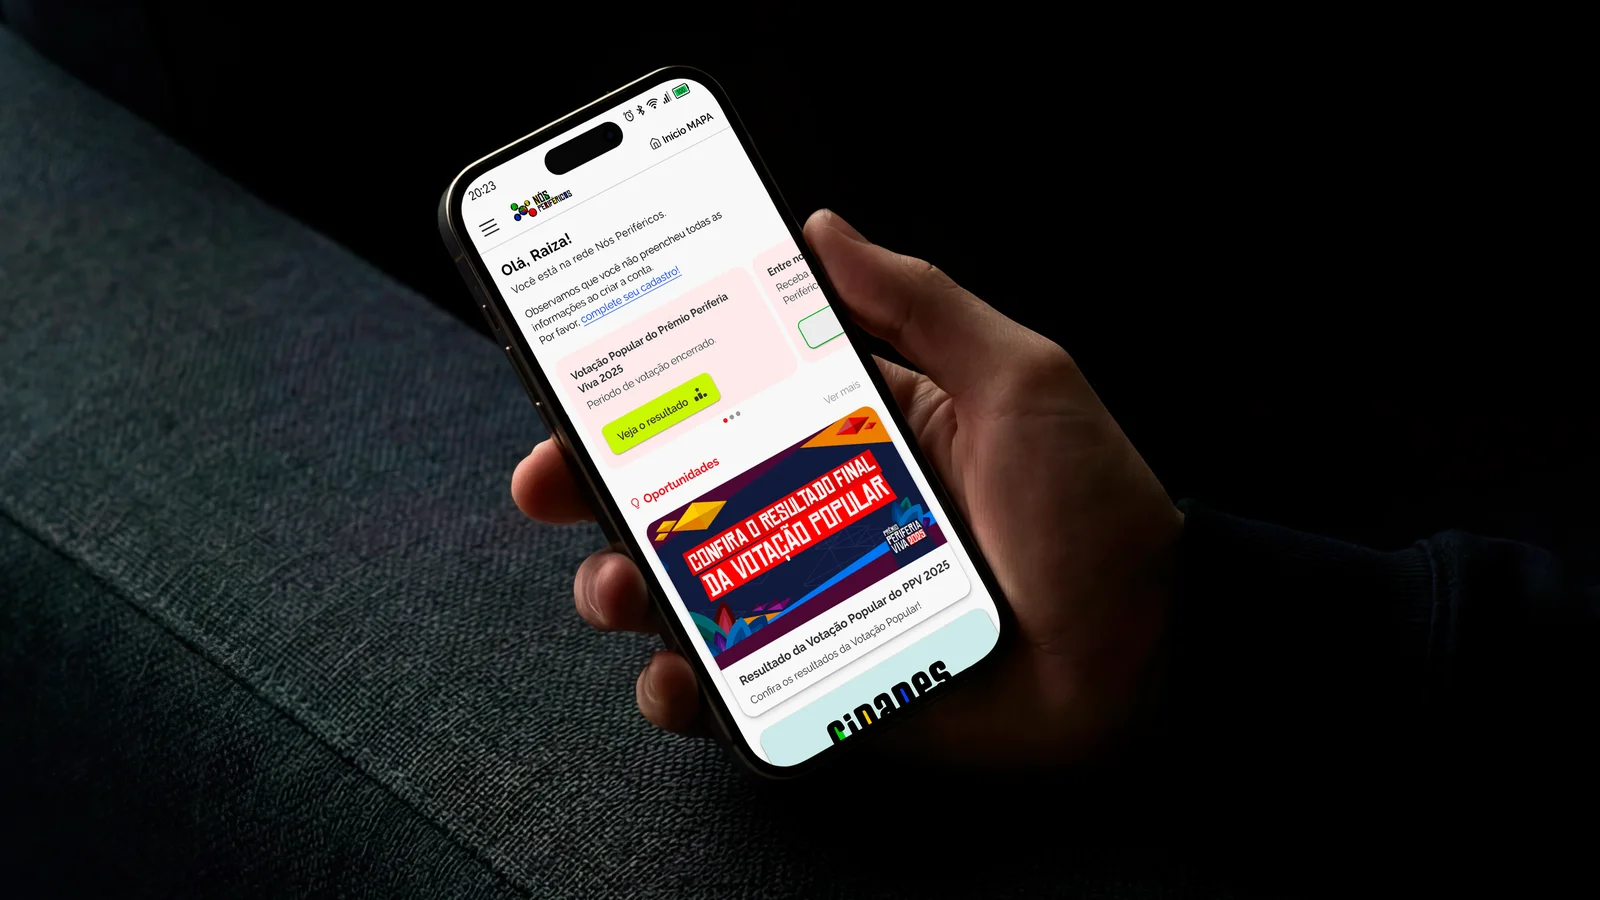
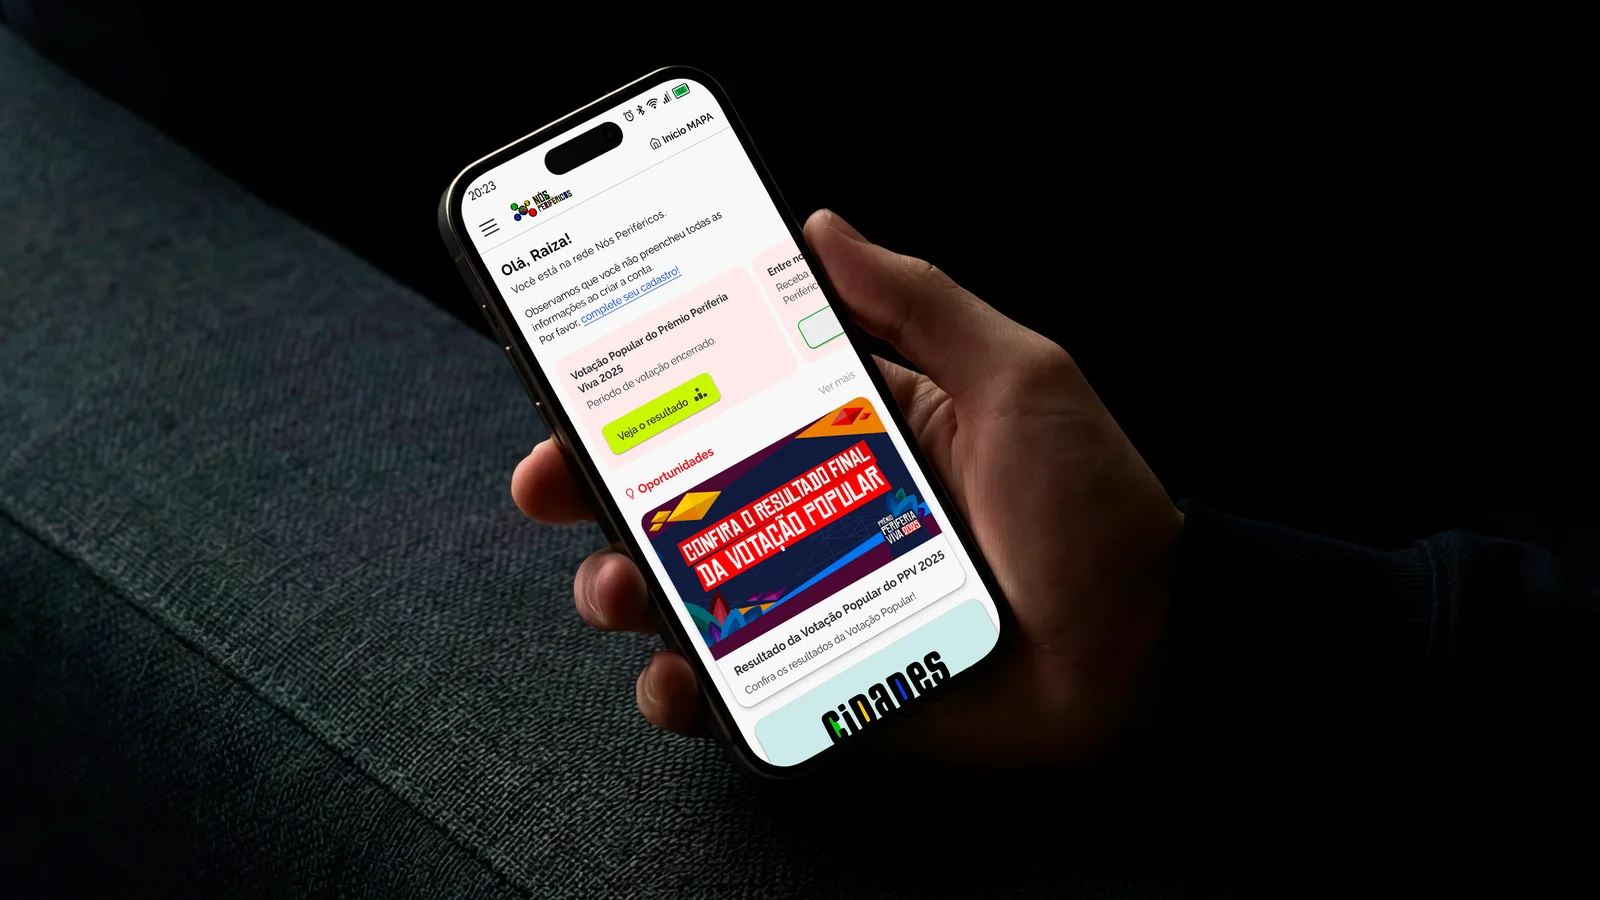
Nós Periféricos: troca capa e thumbnail
Claude-Session: https://claude.ai/code/session_012AxJFdE54PENw1WeYu8UBg

Changed region(s): [[0.375, 0.4356, 0.625, 0.8089]]

diff --git a/projetos/nos-perifericos.html b/projetos/nos-perifericos.html
@@ -7,11 +7,11 @@
 <meta name="description" content="Plataforma criada do zero para iniciativas das periferias encontrarem editais, cursos e oportunidades do governo federal, e a busca que leva o CEP do programa CEP para Todos a quem mora em favelas e comunidades.">
 <meta property="og:title" content="Nós Periféricos — Raiza Tomazoni">
 <meta property="og:description" content="Plataforma criada do zero para iniciativas das periferias encontrarem editais, cursos e oportunidades do governo federal, e a busca que leva o CEP do programa CEP para Todos a quem mora em favelas e comunidades.">
-<meta property="og:image" content="../assets/img/cover-nos-perifericos.webp?v=8bea8d30">
+<meta property="og:image" content="../assets/img/cover-nos-perifericos.webp?v=ae859e0e">
 <meta name="theme-color" content="#f3f4f5">
 <link rel="icon" href="../assets/favicon.svg" type="image/svg+xml">
 <link rel="preconnect" href="https://fonts.googleapis.com"><link rel="preconnect" href="https://fonts.gstatic.com" crossorigin><link href="https://fonts.googleapis.com/css2?family=Bricolage+Grotesque:opsz,wdth,wght@12..96,75..100,200..800&family=Inter:opsz,wght@14..32,400..700&family=Quicksand:wght@400..700&family=Lato:wght@400;700&display=swap" rel="stylesheet">
-<link rel="stylesheet" href="../assets/css/style.css?v=1792247257">
+<link rel="stylesheet" href="../assets/css/style.css?v=1792247449">
 <script>document.documentElement.classList.add('js')</script>
 </head>
 <body>
@@ -33,7 +33,7 @@
   <p class="lede" data-reveal>Uma plataforma federal criada do zero para que iniciativas das periferias encontrem editais, cursos e oportunidades, e uma busca que entrega o CEP oficial de favelas e comunidades a partir do nome do lugar onde a pessoa mora.</p>
   <dl class="meta" data-reveal><div><dt>Papel</dt><dd>UX/UI Designer</dd></div><div><dt>Cliente</dt><dd>Secretaria Nacional de Periferias</dd></div><div><dt>Ano</dt><dd>2025</dd></div><div><dt>No ar</dt><dd><a href="https://nosperifericos.cidades.gov.br" target="_blank" rel="noopener">nosperifericos.cidades.gov.br</a></dd></div></dl>
 </div></section>
-<div class="wrap case-cover"><div class="case-cover__frame" data-reveal="clip"><img src="../assets/img/np-capa.webp?v=890ce367" alt="Celular na mão mostrando a tela inicial do Nós Periféricos, com saudação, aviso para completar o cadastro, destaque da Votação Popular e oportunidades"></div></div>
+<div class="wrap case-cover"><div class="case-cover__frame" data-reveal="clip"><img src="../assets/img/np-capa.webp?v=3c8ddd34" alt="Celular na mão mostrando a tela inicial do Nós Periféricos, com saudação, aviso para completar o cadastro, destaque da Votação Popular e oportunidades"></div></div>
 <div class="wrap">
 <section class="block"><h2 data-reveal>O desafio</h2><div class="block__body" data-reveal>
 <p>A Secretaria Nacional de Periferias (SNP) mantém programas, editais, cursos e ações voltados a favelas e comunidades urbanas de todo o país, mas não existia um lugar único onde as iniciativas periféricas pudessem se cadastrar, encontrar o que se aplica à sua realidade e se conectar entre si.</p>
@@ -91,6 +91,6 @@
   <span>© <span id="ano">2026</span> Raiza Tomazoni</span>
   <a class="u" href="https://www.linkedin.com/in/raizatomazoni/" target="_blank" rel="noopener">linkedin.com/in/raizatomazoni</a>
 </div></footer>
-<script src="../assets/js/main.js?v=1792247257" defer></script>
+<script src="../assets/js/main.js?v=1792247449" defer></script>
 </body>
 </html>

diff --git a/index.html b/index.html
@@ -7,11 +7,11 @@
 <meta name="description" content="Portfólio de Raiza Tomazoni, designer de produto e UX com formação em Arquitetura e Urbanismo. Projetos para a Secretaria Nacional de Periferias, SUDEMA-PB e outros.">
 <meta property="og:title" content="Raiza Tomazoni — UX/UI e Product Designer">
 <meta property="og:description" content="Portfólio de Raiza Tomazoni, designer de produto e UX com formação em Arquitetura e Urbanismo. Projetos para a Secretaria Nacional de Periferias, SUDEMA-PB e outros.">
-<meta property="og:image" content="assets/img/cover-nos-perifericos.webp?v=8bea8d30">
+<meta property="og:image" content="assets/img/cover-nos-perifericos.webp?v=ae859e0e">
 <meta name="theme-color" content="#f3f4f5">
 <link rel="icon" href="assets/favicon.svg" type="image/svg+xml">
 <link rel="preconnect" href="https://fonts.googleapis.com"><link rel="preconnect" href="https://fonts.gstatic.com" crossorigin><link href="https://fonts.googleapis.com/css2?family=Bricolage+Grotesque:opsz,wdth,wght@12..96,75..100,200..800&family=Inter:opsz,wght@14..32,400..700&family=Quicksand:wght@400..700&family=Lato:wght@400;700&display=swap" rel="stylesheet">
-<link rel="stylesheet" href="assets/css/style.css?v=1792247257">
+<link rel="stylesheet" href="assets/css/style.css?v=1792247449">
 <script>document.documentElement.classList.add('js')</script>
 </head>
 <body>
@@ -87,7 +87,7 @@
   </div>
   <div class="grid">
       <a class="card" href="projetos/nos-perifericos.html" data-reveal>
-        <div class="card__media" data-cursor="Ver projeto"><img src="assets/img/cover-nos-perifericos.webp?v=8bea8d30" alt="Celular na mão mostrando a tela inicial do Nós Periféricos, com saudação, aviso para completar o cadastro, destaque da Votação Popular e oportunidades" width="1600" height="900" loading="lazy"></div>
+        <div class="card__media" data-cursor="Ver projeto"><img src="assets/img/cover-nos-perifericos.webp?v=ae859e0e" alt="Celular na mão mostrando a tela inicial do Nós Periféricos, com saudação, aviso para completar o cadastro, destaque da Votação Popular e oportunidades" width="1600" height="900" loading="lazy"></div>
         <h3>Nós Periféricos</h3>
         <p>Plataforma federal para iniciativas das periferias e a busca do CEP oficial de favelas e comunidades.</p>
       </a>
@@ -176,6 +176,6 @@
   <span>© <span id="ano">2026</span> Raiza Tomazoni</span>
   <a class="u" href="https://www.linkedin.com/in/raizatomazoni/" target="_blank" rel="noopener">linkedin.com/in/raizatomazoni</a>
 </div></footer>
-<script src="assets/js/main.js?v=1792247257" defer></script>
+<script src="assets/js/main.js?v=1792247449" defer></script>
 </body>
 </html>

diff --git a/projetos/cte.html b/projetos/cte.html
@@ -11,7 +11,7 @@
 <meta name="theme-color" content="#f3f4f5">
 <link rel="icon" href="../assets/favicon.svg" type="image/svg+xml">
 <link rel="preconnect" href="https://fonts.googleapis.com"><link rel="preconnect" href="https://fonts.gstatic.com" crossorigin><link href="https://fonts.googleapis.com/css2?family=Bricolage+Grotesque:opsz,wdth,wght@12..96,75..100,200..800&family=Inter:opsz,wght@14..32,400..700&family=Quicksand:wght@400..700&family=Lato:wght@400;700&display=swap" rel="stylesheet">
-<link rel="stylesheet" href="../assets/css/style.css?v=1792247257">
+<link rel="stylesheet" href="../assets/css/style.css?v=1792247449">
 <script>document.documentElement.classList.add('js')</script>
 </head>
 <body>
@@ -172,6 +172,6 @@
   <span>© <span id="ano">2026</span> Raiza Tomazoni</span>
   <a class="u" href="https://www.linkedin.com/in/raizatomazoni/" target="_blank" rel="noopener">linkedin.com/in/raizatomazoni</a>
 </div></footer>
-<script src="../assets/js/main.js?v=1792247257" defer></script>
+<script src="../assets/js/main.js?v=1792247449" defer></script>
 </body>
 </html>

diff --git a/projetos/rangout.html b/projetos/rangout.html
@@ -11,7 +11,7 @@
 <meta name="theme-color" content="#f3f4f5">
 <link rel="icon" href="../assets/favicon.svg" type="image/svg+xml">
 <link rel="preconnect" href="https://fonts.googleapis.com"><link rel="preconnect" href="https://fonts.gstatic.com" crossorigin><link href="https://fonts.googleapis.com/css2?family=Bricolage+Grotesque:opsz,wdth,wght@12..96,75..100,200..800&family=Inter:opsz,wght@14..32,400..700&family=Quicksand:wght@400..700&family=Lato:wght@400;700&display=swap" rel="stylesheet">
-<link rel="stylesheet" href="../assets/css/style.css?v=1792247257">
+<link rel="stylesheet" href="../assets/css/style.css?v=1792247449">
 <script>document.documentElement.classList.add('js')</script>
 </head>
 <body>
@@ -221,6 +221,6 @@
   <span>© <span id="ano">2026</span> Raiza Tomazoni</span>
   <a class="u" href="https://www.linkedin.com/in/raizatomazoni/" target="_blank" rel="noopener">linkedin.com/in/raizatomazoni</a>
 </div></footer>
-<script src="../assets/js/main.js?v=1792247257" defer></script>
+<script src="../assets/js/main.js?v=1792247449" defer></script>
 </body>
 </html>

diff --git a/projetos/vitra.html b/projetos/vitra.html
@@ -11,7 +11,7 @@
 <meta name="theme-color" content="#f3f4f5">
 <link rel="icon" href="../assets/favicon.svg" type="image/svg+xml">
 <link rel="preconnect" href="https://fonts.googleapis.com"><link rel="preconnect" href="https://fonts.gstatic.com" crossorigin><link href="https://fonts.googleapis.com/css2?family=Bricolage+Grotesque:opsz,wdth,wght@12..96,75..100,200..800&family=Inter:opsz,wght@14..32,400..700&family=Quicksand:wght@400..700&family=Lato:wght@400;700&display=swap" rel="stylesheet">
-<link rel="stylesheet" href="../assets/css/style.css?v=1792247257">
+<link rel="stylesheet" href="../assets/css/style.css?v=1792247449">
 <script>document.documentElement.classList.add('js')</script>
 </head>
 <body>
@@ -125,6 +125,6 @@
   <span>© <span id="ano">2026</span> Raiza Tomazoni</span>
   <a class="u" href="https://www.linkedin.com/in/raizatomazoni/" target="_blank" rel="noopener">linkedin.com/in/raizatomazoni</a>
 </div></footer>
-<script src="../assets/js/main.js?v=1792247257" defer></script>
+<script src="../assets/js/main.js?v=1792247449" defer></script>
 </body>
 </html>

diff --git a/projetos/labrua.html b/projetos/labrua.html
@@ -11,7 +11,7 @@
 <meta name="theme-color" content="#f3f4f5">
 <link rel="icon" href="../assets/favicon.svg" type="image/svg+xml">
 <link rel="preconnect" href="https://fonts.googleapis.com"><link rel="preconnect" href="https://fonts.gstatic.com" crossorigin><link href="https://fonts.googleapis.com/css2?family=Bricolage+Grotesque:opsz,wdth,wght@12..96,75..100,200..800&family=Inter:opsz,wght@14..32,400..700&family=Quicksand:wght@400..700&family=Lato:wght@400;700&display=swap" rel="stylesheet">
-<link rel="stylesheet" href="../assets/css/style.css?v=1792247257">
+<link rel="stylesheet" href="../assets/css/style.css?v=1792247449">
 <script>document.documentElement.classList.add('js')</script>
 </head>
 <body>
@@ -54,6 +54,6 @@
   <span>© <span id="ano">2026</span> Raiza Tomazoni</span>
   <a class="u" href="https://www.linkedin.com/in/raizatomazoni/" target="_blank" rel="noopener">linkedin.com/in/raizatomazoni</a>
 </div></footer>
-<script src="../assets/js/main.js?v=1792247257" defer></script>
+<script src="../assets/js/main.js?v=1792247449" defer></script>
 </body>
 </html>

diff --git a/projetos/mapa-das-periferias.html b/projetos/mapa-das-periferias.html
@@ -11,7 +11,7 @@
 <meta name="theme-color" content="#f3f4f5">
 <link rel="icon" href="../assets/favicon.svg" type="image/svg+xml">
 <link rel="preconnect" href="https://fonts.googleapis.com"><link rel="preconnect" href="https://fonts.gstatic.com" crossorigin><link href="https://fonts.googleapis.com/css2?family=Bricolage+Grotesque:opsz,wdth,wght@12..96,75..100,200..800&family=Inter:opsz,wght@14..32,400..700&family=Quicksand:wght@400..700&family=Lato:wght@400;700&display=swap" rel="stylesheet">
-<link rel="stylesheet" href="../assets/css/style.css?v=1792247257">
+<link rel="stylesheet" href="../assets/css/style.css?v=1792247449">
 <script>document.documentElement.classList.add('js')</script>
 </head>
 <body>
@@ -56,6 +56,6 @@
   <span>© <span id="ano">2026</span> Raiza Tomazoni</span>
   <a class="u" href="https://www.linkedin.com/in/raizatomazoni/" target="_blank" rel="noopener">linkedin.com/in/raizatomazoni</a>
 </div></footer>
-<script src="../assets/js/main.js?v=1792247257" defer></script>
+<script src="../assets/js/main.js?v=1792247449" defer></script>
 </body>
 </html>

diff --git a/projetos/sudema-mais.html b/projetos/sudema-mais.html
@@ -11,7 +11,7 @@
 <meta name="theme-color" content="#f3f4f5">
 <link rel="icon" href="../assets/favicon.svg" type="image/svg+xml">
 <link rel="preconnect" href="https://fonts.googleapis.com"><link rel="preconnect" href="https://fonts.gstatic.com" crossorigin><link href="https://fonts.googleapis.com/css2?family=Bricolage+Grotesque:opsz,wdth,wght@12..96,75..100,200..800&family=Inter:opsz,wght@14..32,400..700&family=Quicksand:wght@400..700&family=Lato:wght@400;700&display=swap" rel="stylesheet">
-<link rel="stylesheet" href="../assets/css/style.css?v=1792247257">
+<link rel="stylesheet" href="../assets/css/style.css?v=1792247449">
 <script>document.documentElement.classList.add('js')</script>
 </head>
 <body>
@@ -54,6 +54,6 @@
   <span>© <span id="ano">2026</span> Raiza Tomazoni</span>
   <a class="u" href="https://www.linkedin.com/in/raizatomazoni/" target="_blank" rel="noopener">linkedin.com/in/raizatomazoni</a>
 </div></footer>
-<script src="../assets/js/main.js?v=1792247257" defer></script>
+<script src="../assets/js/main.js?v=1792247449" defer></script>
 </body>
 </html>
